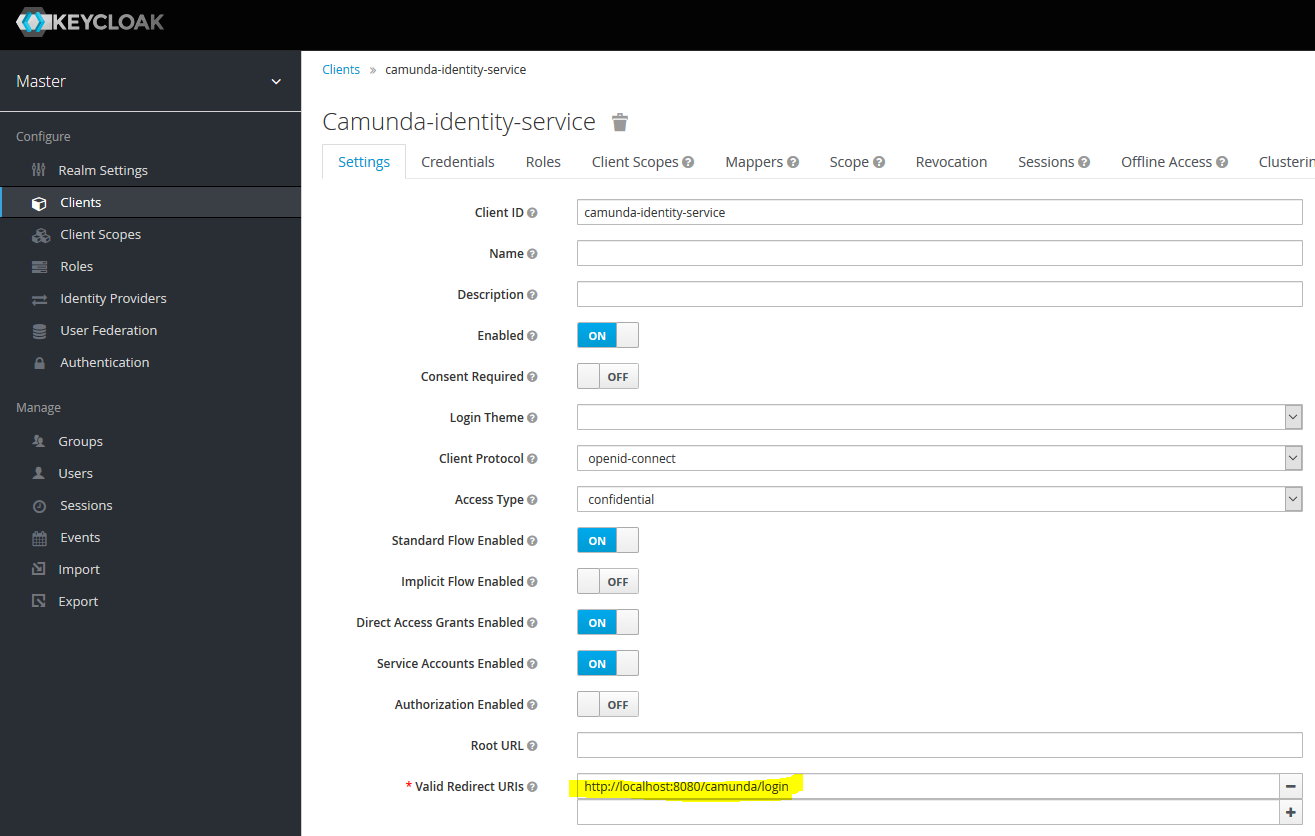
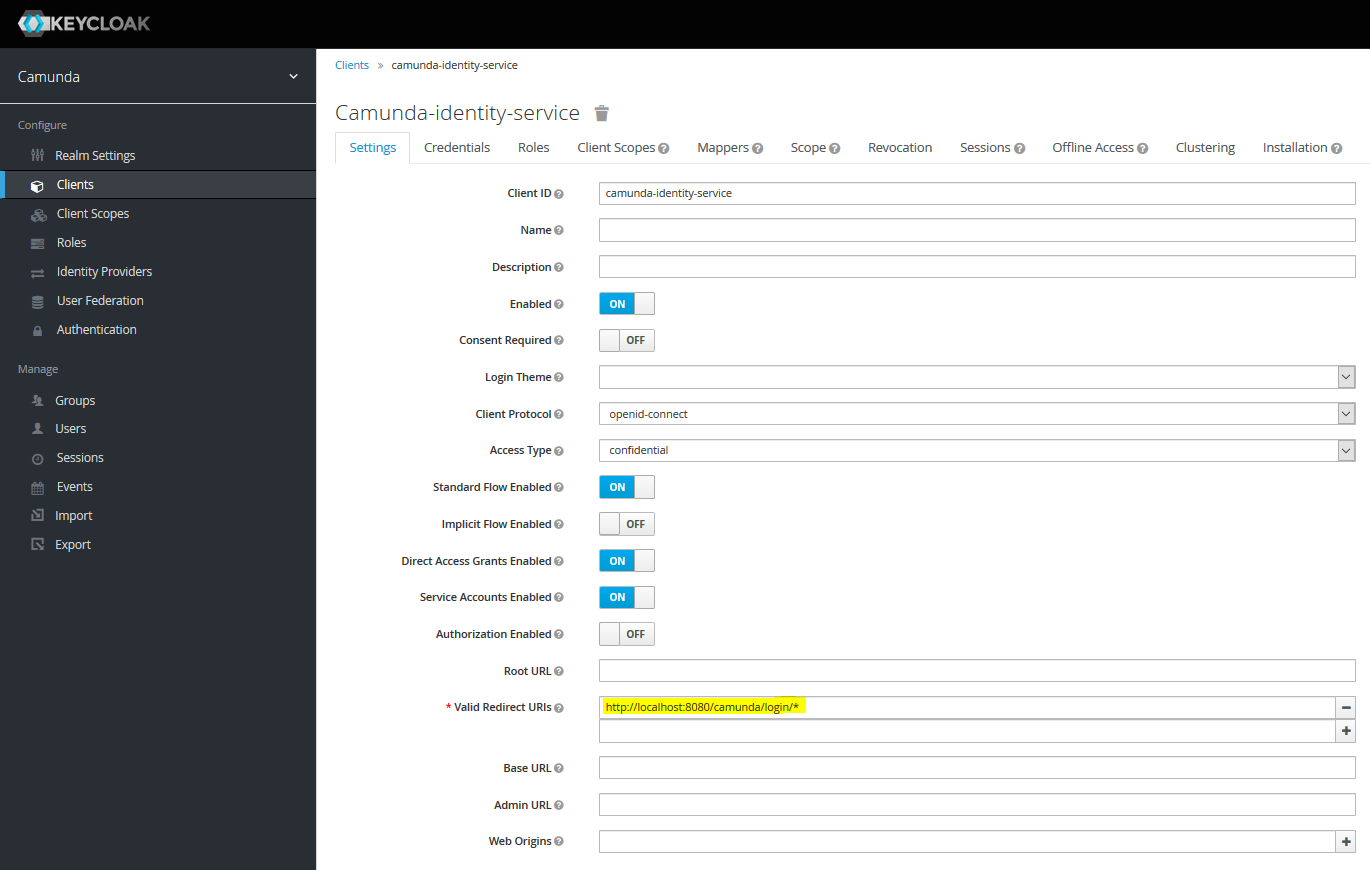
docs: quick description of the optional REST Api Security setup.

diff --git a/examples/sso-kubernetes/README.md b/examples/sso-kubernetes/README.md
@@ -78,51 +78,110 @@ The only thing you have to adapt is the **Redirect URI** of the Camuna Identity 
 
 ![Keycloak-RedirectURI](docs/Keycloak-RedirectURI.PNG) 
 
-**Beware**: This is a first basic test setup which currently still uses the Master realm. For production I would strongly encourage you to setup your own realm and use Master only for administration purposes. In a future version this showcase will be modified as well.
-
-For further details on how to setup a Keycloak Camunda Identity Service Client see documentation of [Keycloak Identity Provider Plugin](https://github.com/camunda/camunda-bpm-identity-keycloak)
+For further details on how to setup a Keycloak Camunda Identity Service Client see documentation of [Keycloak Identity Provider Plugin](https://github.com/camunda/camunda-bpm-identity-keycloak). The optional setup for securing Camunda's REST Api is described in the chapters below.
 
 ### Keycloak Identity Provider Plugin
 
 ``KeycloakIdentityProvider.java`` in package ``org.camunda.bpm.extension.keycloak.showcase.plugin`` will activate the plugin.
 
-The configuration part in ``applicaton.yaml`` is as follows:
+The main configuration part in ``applicaton.yaml`` is as follows:
 
-	keycloak.url.plugin: ${KEYCLOAK_URL_PLUGIN:https://localhost:9001}
+	# Externalized Keycloak configuration
+	keycloak:
+	  # Keycloak access for the Identity Provider plugin.
+	  url.plugin: ${KEYCLOAK_URL_PLUGIN:https://localhost:9001}
 
+	  # Keycloak Camunda Identity Client
+	  client.id: ${KEYCLOAK_CLIENT_ID:camunda-identity-service}
+	  client.secret: ${KEYCLOAK_CLIENT_SECRET:42xx42xx-a17b-c63d-e26f-42xx42xx42xx42xx}
+
+	# Camunda Keycloak Identity Provider Plugin
 	plugin.identity.keycloak:
-	  keycloakIssuerUrl: ${keycloak.url.plugin}/auth/realms/master
-	  keycloakAdminUrl: ${keycloak.url.plugin}/auth/admin/realms/master
-	  clientId: camunda-identity-service
-	  clientSecret: 7d3c845d-f652-4bed-9797-d6d20b7623da
+	  keycloakIssuerUrl: ${keycloak.url.plugin}/auth/realms/camunda
+	  keycloakAdminUrl: ${keycloak.url.plugin}/auth/admin/realms/camunda
+	  clientId: ${keycloak.client.id}
+	  clientSecret: ${keycloak.client.secret}
 	  useEmailAsCamundaUserId: true
 	  useUsernameAsCamundaUserId: false
+	  useGroupPathAsCamundaGroupId: true
 	  administratorGroupName: camunda-admin
 	  disableSSLCertificateValidation: true
-	  
+  
 For configuration details of the plugin see documentation of [Keycloak Identity Provider Plugin](https://github.com/camunda/camunda-bpm-identity-keycloak) 
 
 ### OAuth2 SSO Configuration
 
 See package ``org.camunda.bpm.extension.keycloak.showcase.sso``.
 
-The main configuration part in ``applicaton.yaml`` is as follows:
+The additional configuration parts in ``applicaton.yaml`` are as follows:
 
-	keycloak.url.client: ${KEYCLOAK_URL_CLIENT:http://localhost:9000}
-	keycloak.url.token: ${KEYCLOAK_URL_TOKEN:http://localhost:9000}
+	# Externalized Keycloak configuration
+	keycloak:
+	  # SSO Authentication requests. Send by application as redirect to the browser
+	  url.auth: ${KEYCLOAK_URL_AUTH:http://localhost:9000}
+	  # SSO Token requests. Send from the application to Keycloak
+	  url.token: ${KEYCLOAK_URL_TOKEN:http://localhost:9000}
 
+	# Spring Boot SSO OAuth2 Security
 	security:
-	  basic:
-	    enabled: false
 	  oauth2:
 	    client:
-	      client-id: camunda-identity-service
-	      client-secret: 7d3c845d-f652-4bed-9797-d6d20b7623da
-	      accessTokenUri: ${keycloak.url.token}/auth/realms/master/protocol/openid-connect/token
-	      userAuthorizationUri: ${keycloak.url.client}/auth/realms/master/protocol/openid-connect/auth
+	      client-id: ${keycloak.client.id}
+	      client-secret: ${keycloak.client.secret}
+	      accessTokenUri: ${keycloak.url.token}/auth/realms/camunda/protocol/openid-connect/token
+	      userAuthorizationUri: ${keycloak.url.auth}/auth/realms/camunda/protocol/openid-connect/auth
 	      scope: openid profile email
 	    resource:
-	      userInfoUri: ${keycloak.url.client}/auth/realms/master/protocol/openid-connect/userinfo
+	      userInfoUri: ${keycloak.url.auth}/auth/realms/camunda/protocol/openid-connect/userinfo
+
+### Optional Security for the Camunda REST Api
+
+In order to secure Camunda's REST Api we're using JWT combined with Keycloaks JWKS capabilities.
+
+The additional configuration in ``application.yaml`` is simple and self explaining:
+
+	# Camunda Rest API
+	rest.security:
+	  enabled: true
+	  jwk-set-url: ${keycloak.url.token}/auth/realms/camunda/protocol/openid-connect/certs
+	  required-audience: camunda-rest-api
+
+In order to get the required audience delivered within the tokens from Keycloak we configure a custom Client Scope named ``camunda-rest-api``:
+![KeycloakClientScope](docs/Keycloak-Client-Scope.PNG)
+
+We need to add a mapper with type ``Audience`` and custom audience ``camunda-rest-api``
+![KeycloakClientScopeMapper](docs/Keycloak-Client-Scope-Mapper.PNG)
+
+Finally we assign the created Client Scope to the Camunda-Identity-Service:
+![KeycloakClientScopeAssignment](docs/Keycloak-Client-Scope-Assignment.PNG)
+
+This ensures, that only user authenticated at the Camunda-Identity-Service are allowed to access Camunda's REST API. Fine grained configuration of the authorization rights can be achieved by adding rules to Camunda's Authorization configuration.
+
+The security configuration classes for the REST Api part can be found in package ``org.camunda.bpm.extension.keycloak.showcase.rest``. Besides a typical implementation of a ``ResourceServerConfigurerAdapter`` we need a ``KeycloakAuthenticationFilter`` registered at the end of the Spring Security Filter Chain. Its job is to pass the authenticated user id and groupIds to Camunda's IdentityService:
+
+	@Override
+	public void doFilter(ServletRequest request, ServletResponse response, FilterChain chain)
+			throws IOException, ServletException {
+
+        // Get the Bearer Token and extract claims
+        Authentication authentication = SecurityContextHolder.getContext().getAuthentication();
+        OAuth2AuthenticationDetails details = (OAuth2AuthenticationDetails) authentication.getDetails();
+        String accessToken = details.getTokenValue();
+        String claims = JwtHelper.decode(accessToken).getClaims();
+        
+        // Extract user ID from Token claims -depending on Keycloak Identity Provider configuration
+        // String userId = Spin.JSON(claims).prop("sub").stringValue();
+        String userId = Spin.JSON(claims).prop("email").stringValue(); // useEmailAsCamundaUserId = true
+        // String userId = Spin.JSON(claims).prop("preferred_username").stringValue(); // useUsernameAsCamundaUserId = true
+        LOG.debug("Extracted userId from bearer token: {}", userId);
+
+        try {
+        	identityService.setAuthentication(userId, getUserGroups(userId));
+        	chain.doFilter(request, response);
+        } finally {
+        	identityService.clearAuthentication();
+        }
+	}
 
 ## Kubernetes Setup
 
@@ -180,7 +239,7 @@ In order to make Keycloak run with Kubernetes you have to be aware of two things
 * Activate ``nginx.ingress.kubernetes.io/ssl-redirect`` in your ingress service.
 * The Redirect URI within Keycloak's Camunda-Identity-Service Client should be ``/camunda/login/*``.
 
-Keep in mind that the included ``keycloak/deployment.yaml`` is only a test setup. Adapt to your own needs. For production I would strongly encourage you to setup your own realm and use Master only for administration purposes.
+Keep in mind that the included ``keycloak/deployment.yaml`` is only a test setup. Adapt to your own needs.
 
 After setting up your Keycloak server you can start the deployment of the showcase.
 
